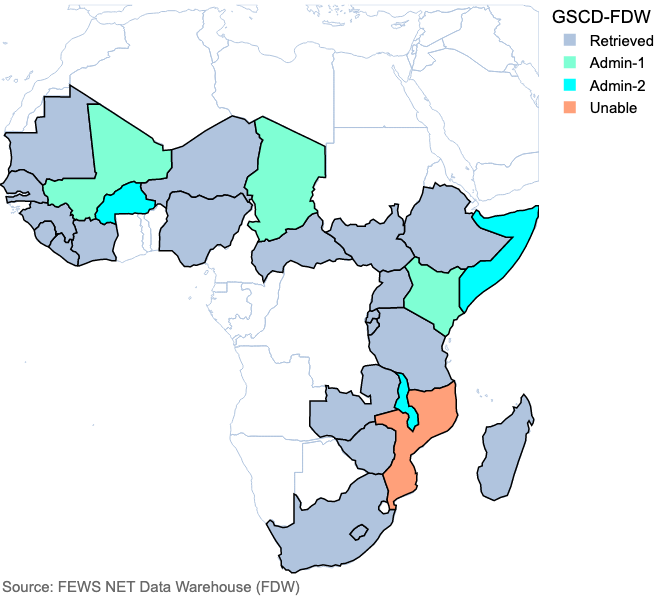
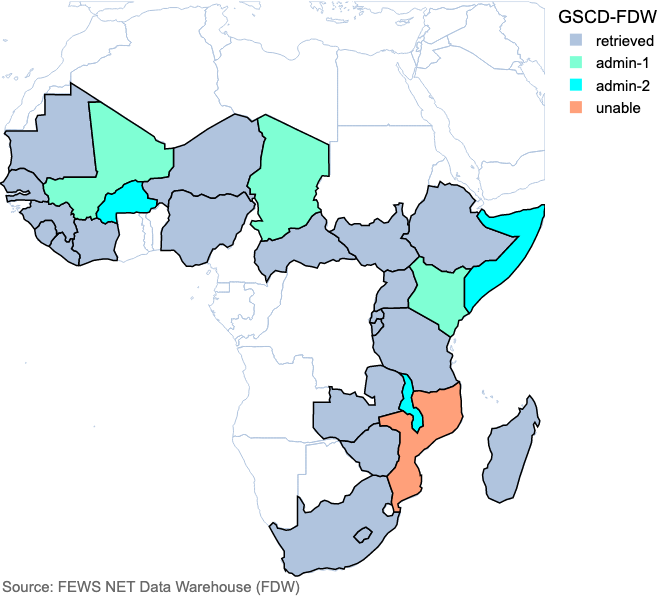
readme fixed

diff --git a/README.md b/README.md
@@ -4,7 +4,7 @@ This repository processes and stores subnational global crop production data fro
 
 Current GSCD-FDW status:
 
-![image](https://github.com/chc-ucsb/GlobalCropData/blob/main/figures/map_gscd_fdw_status.png?raw=true)
+<img src="https://github.com/chc-ucsb/GlobalCropData/blob/main/figures/map_gscd_fdw_status.png?raw=true" alt="drawing" width="600"/>
 
 More details will be provided soon.
 
